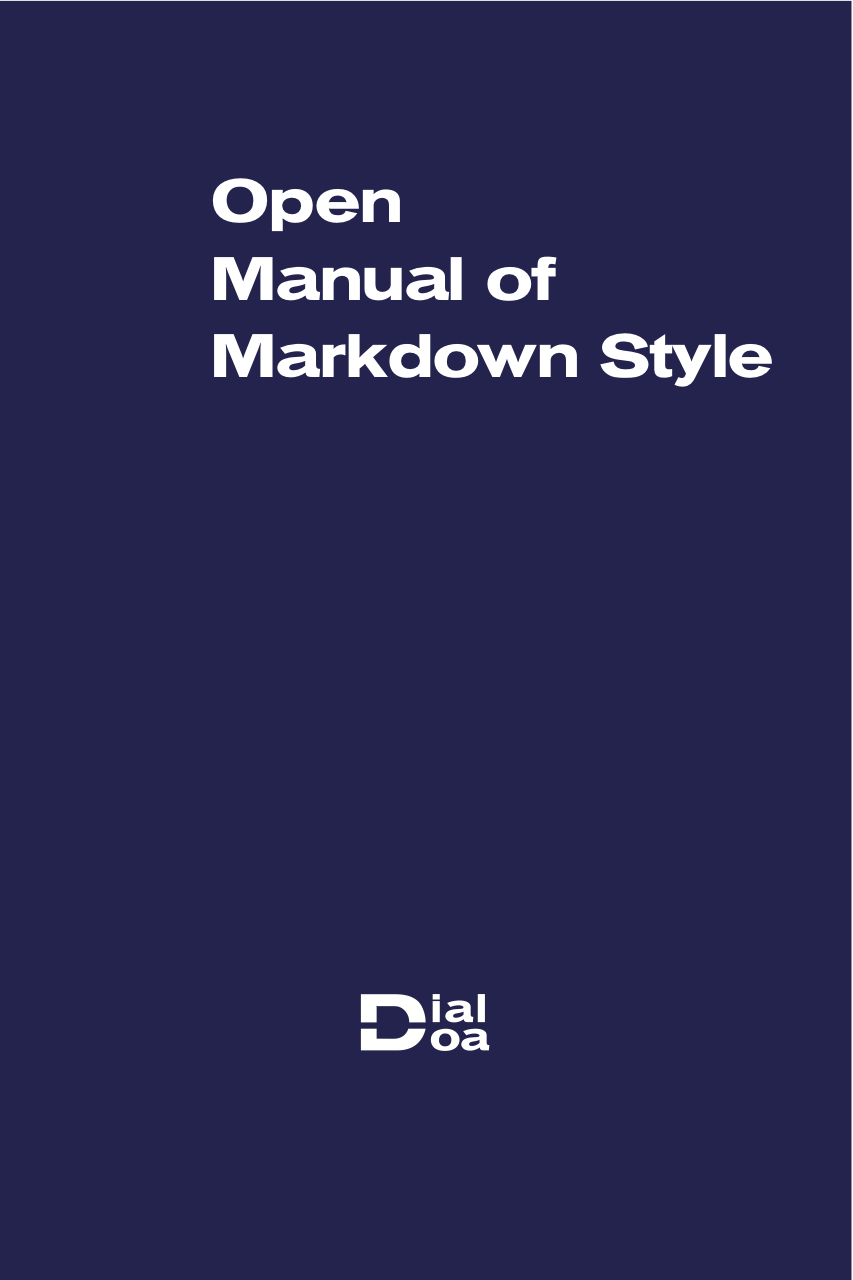
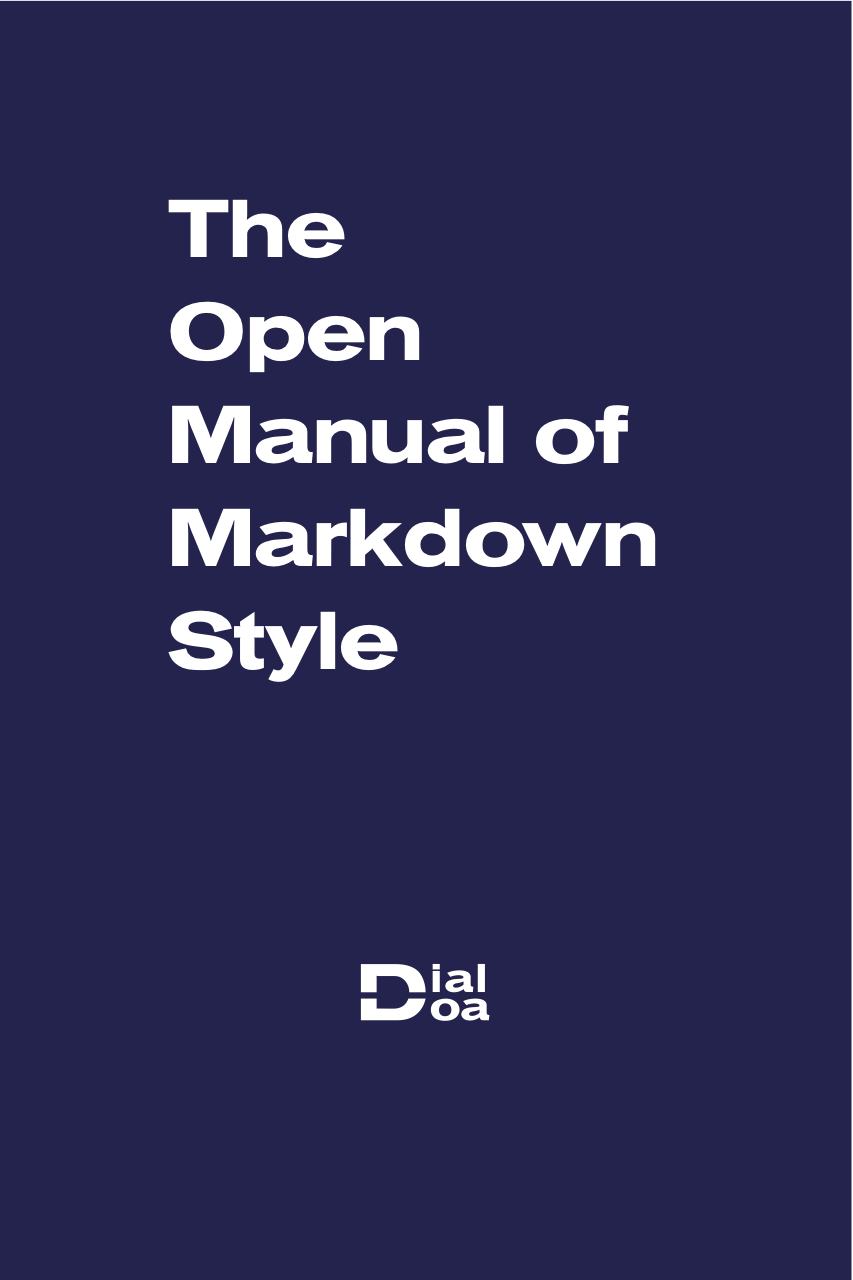
better cover

Changed region(s): [[0.1829, 0.125, 0.9144, 0.5312], [0.4267, 0.75, 0.5791, 0.8438]]

diff --git a/media/cover.tex b/media/cover.tex
@@ -1,6 +1,6 @@
 \documentclass[10pt,
 	paper=14cm:21cm,
-	DIV=12,
+	DIV=10,
 	headinclude=yes,
 	footinclude=no,
 	twoside=no]{scrartcl}
@@ -16,7 +16,7 @@
 % Fonts
 \usepackage{fontspec}
 \setmainfont{VenusSB-BoldExtended}
-\newkomafont{mytitle}{\Large\fontsize{30pt}{36pt}\selectfont}
+\newkomafont{mytitle}{\Large\fontsize{40pt}{48pt}\selectfont}
 
 
 \begin{document}
@@ -27,10 +27,10 @@
 \newpagecolor{dialoablue}\afterpage{\restorepagecolor}
 \color{white}
 
-\hskip 5em
-\parbox{0.9\textwidth}{
+\hskip 2em
+\parbox{0.95\textwidth}{
 	\begin{raggedright}\usekomafont{mytitle}
-	Open \\
+	The \\ Open \\
 	Manual of \\
 	Markdown Style\\
 	\end{raggedright}
